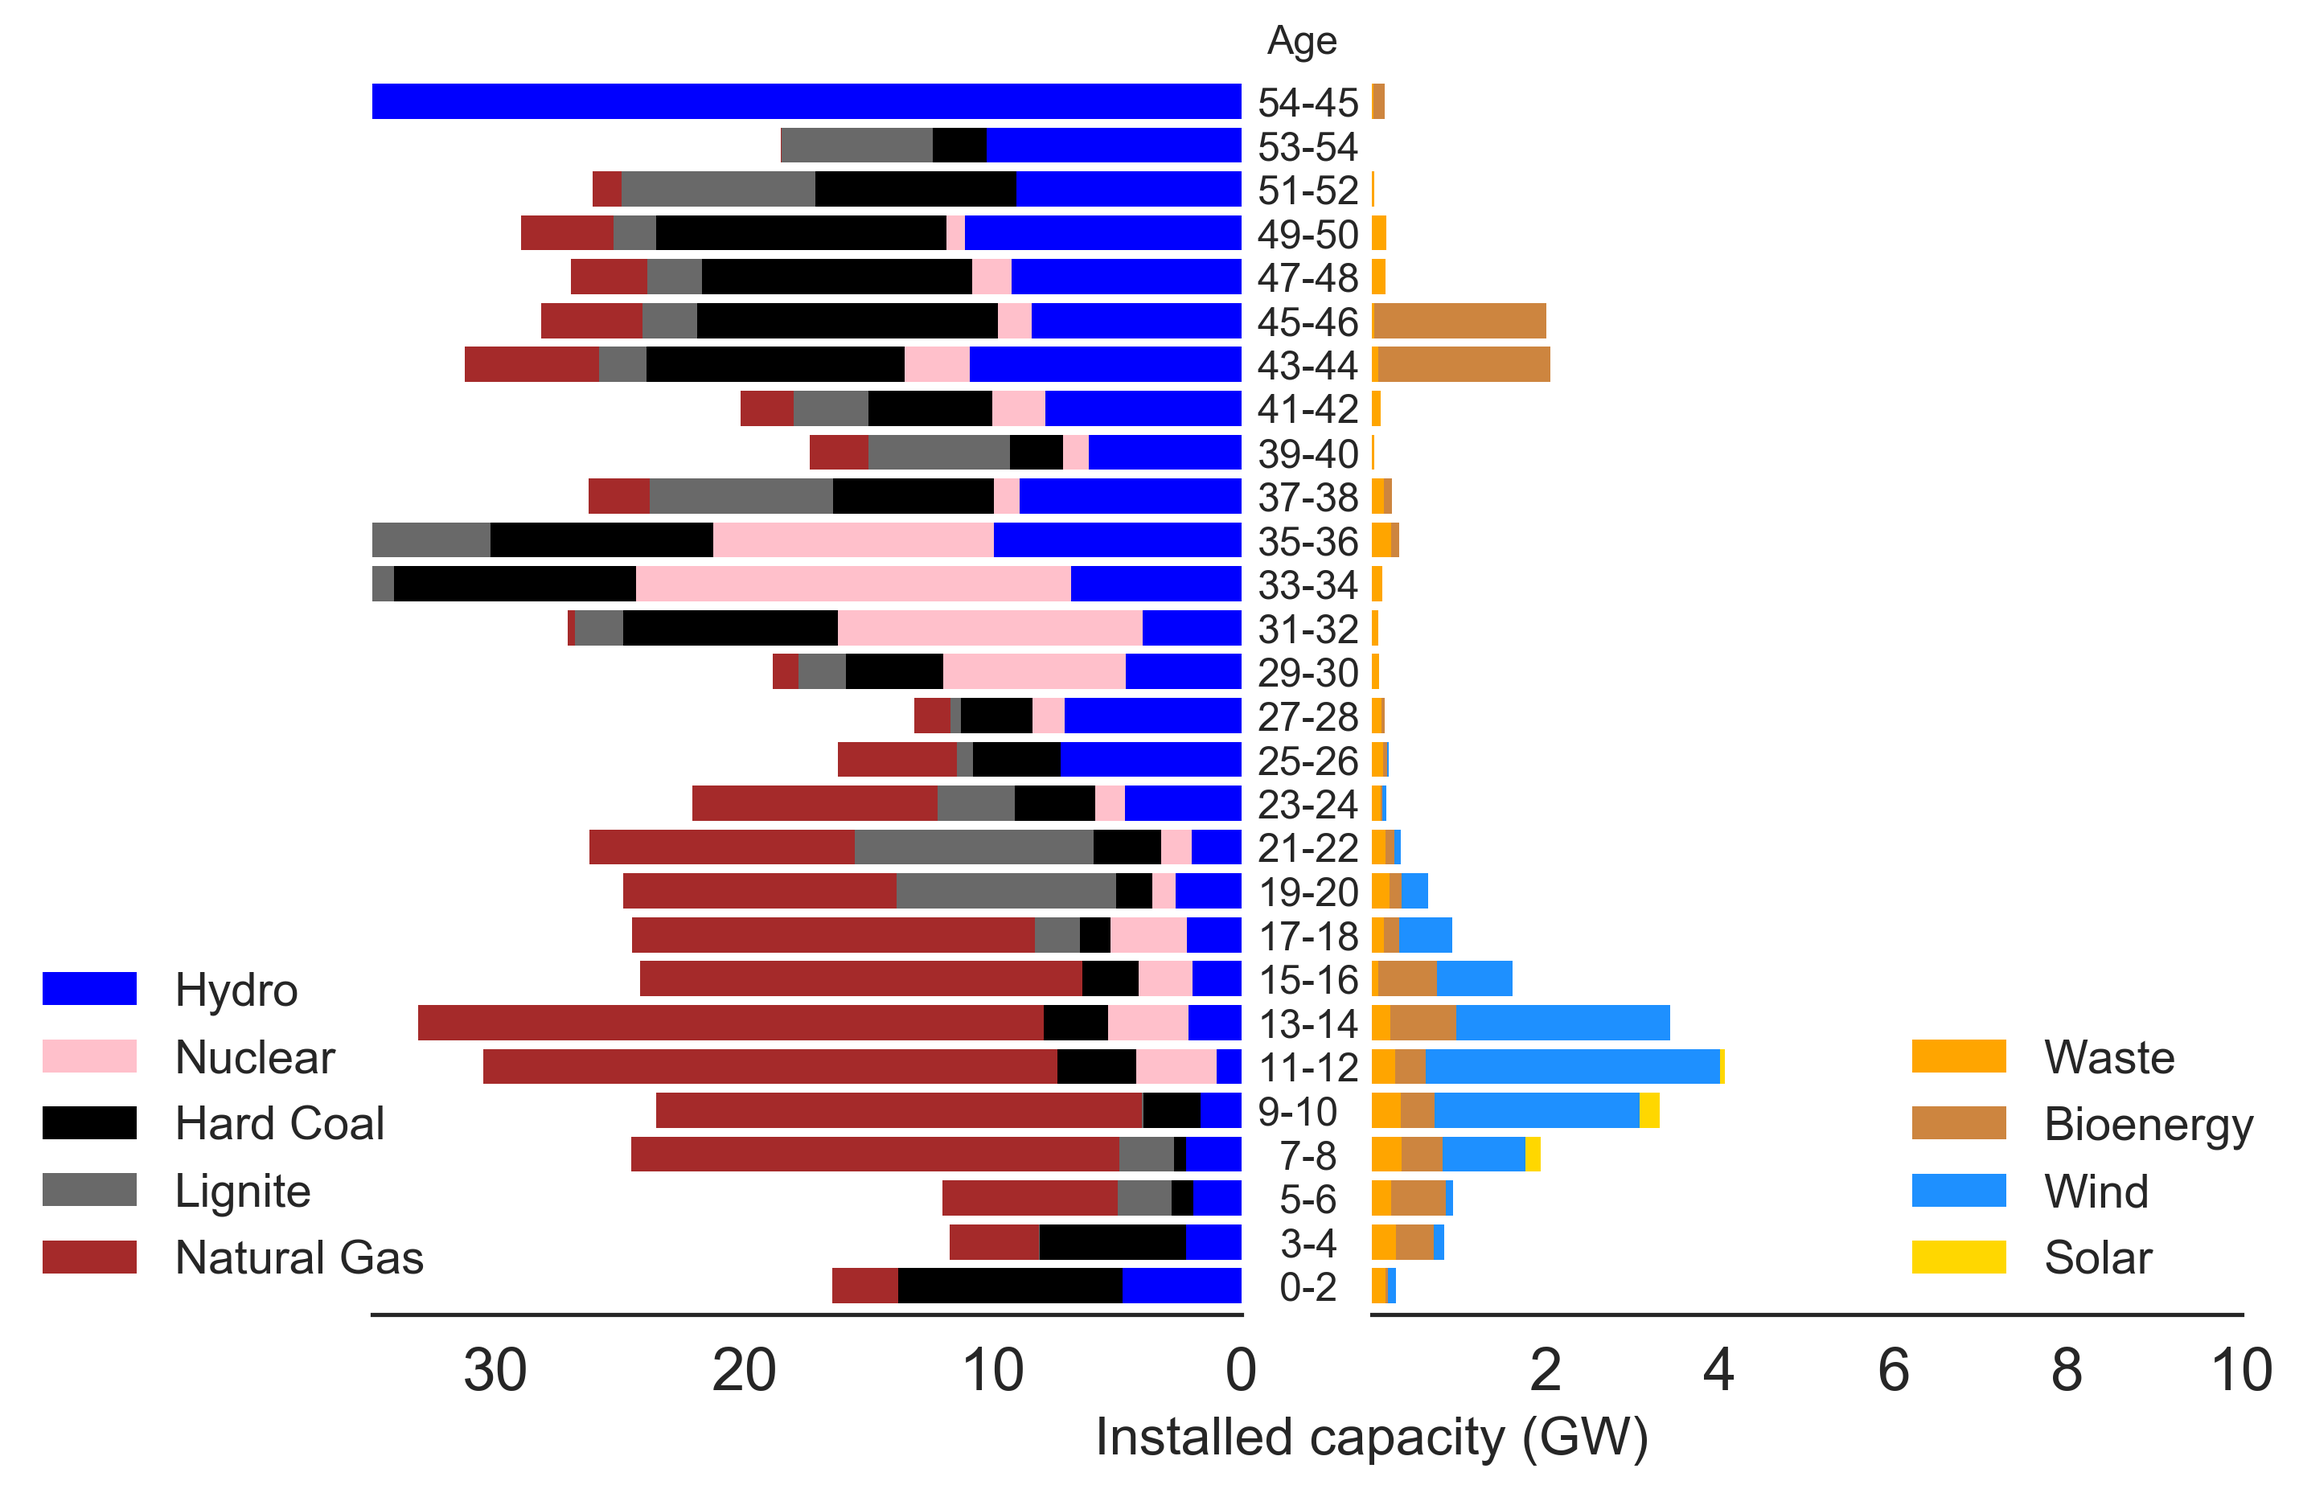
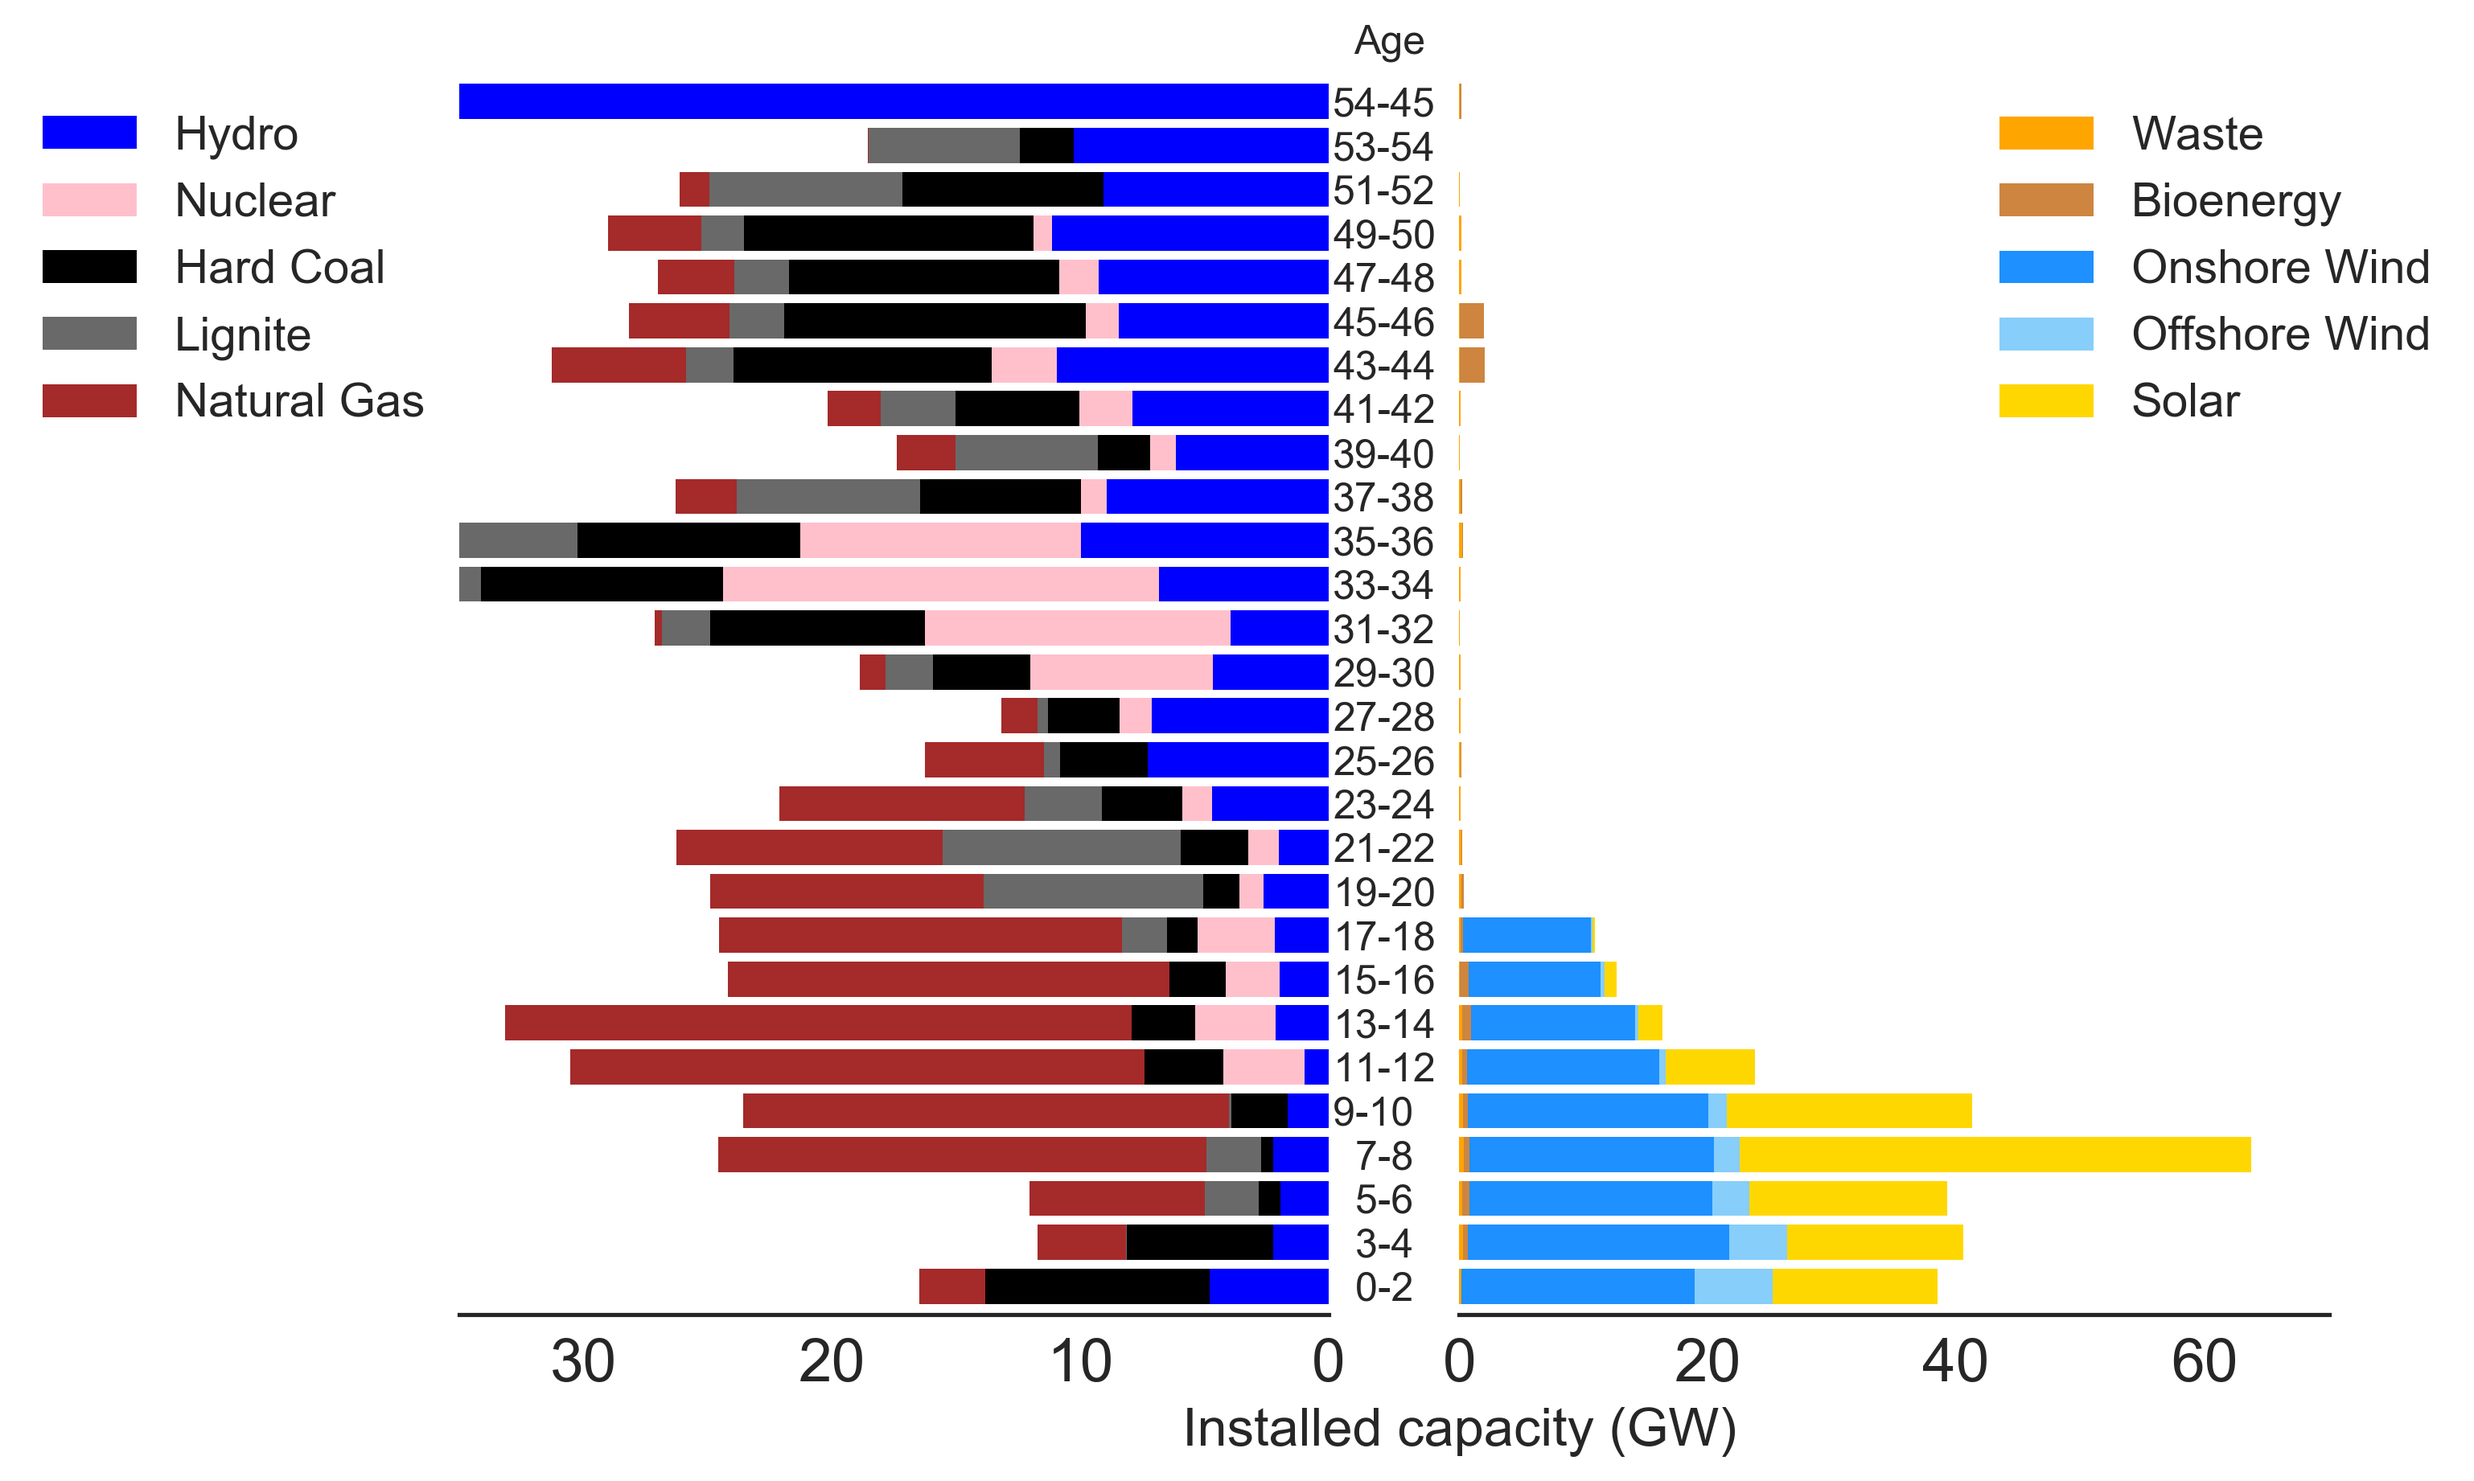
IRENA data added to age plants figure

diff --git a/paper_graphics/age_powerplants.py b/paper_graphics/age_powerplants.py
@@ -4,9 +4,6 @@ Created on Sat Oct 26 11:25:50 2019
 
 @author: Marta
 
-TODO: Read IRENA data for wind and solar
-
-
 """
 import pandas as pd
 import matplotlib.pyplot as plt
@@ -27,7 +24,7 @@ years=np.arange(1965, 2021, 2)
 
 
 technologies=['Hydro', 'Nuclear', 'Hard Coal', 'Lignite', 'Natural Gas', 
-              'Waste', 'Bioenergy', 'Wind', 'Solar']
+              'Waste', 'Bioenergy', 'Onshore Wind', 'Offshore Wind', 'Solar']
 
 
 agedata = pd.DataFrame(index = pd.Series(data=years, name='year'),
@@ -77,7 +74,7 @@ for tech in ['Hydro', 'Nuclear', 'Hard Coal', 'Lignite', 'Natural Gas']:
                               (i[3] > (year-5 )) & 
                               (i[3] < (year))]) 
     
-for tech in ['Waste', 'Bioenergy', 'Wind', 'Solar']:
+for tech in ['Waste', 'Bioenergy']: #, 'Wind', 'Solar']:
     agedata[tech][1965] = sum([i[2] for i in list(zip(data['Technology'], 
                                 data['Fueltype'],
                                 data['Capacity'], 
@@ -99,6 +96,19 @@ for tech in ['Waste', 'Bioenergy', 'Wind', 'Solar']:
                               #(i[4] == country) &  
                               (i[3] > (year-5 )) & 
                               (i[3] < (year))])
+
+# https://www.irena.org/statistics
+pv_df = pd.read_csv('data/PV_capacity_IRENA.csv', sep=';',
+                    index_col=0, encoding="latin-1")
+onwind_df = pd.read_csv('data/OnshoreWind_capacity_IRENA.csv', sep=';',
+                    index_col=0, encoding="latin-1")
+offwind_df = pd.read_csv('data/OffshoreWind_capacity_IRENA.csv', sep=';',
+                    index_col=0, encoding="latin-1")
+for year in years[-9:]:
+    agedata['Solar'][year] =  (pv_df[str(year-1)]['European Union']-pv_df[str(year-3)]['European Union'])
+    agedata['Onshore Wind'][year] =  (onwind_df[str(year-1)]['European Union']-onwind_df[str(year-3)]['European Union'])
+    agedata['Offshore Wind'][year] =  (offwind_df[str(year-1)]['European Union']-offwind_df[str(year-3)]['European Union'])
+agedata.fillna(0, inplace=True)    
     
 agedata=agedata/1000 #GW 
 #%%    
@@ -111,16 +121,16 @@ gs1.update(wspace=0.15)
 
 a0=agedata[['Hydro', 'Nuclear', 'Hard Coal', 'Lignite', 'Natural Gas']].plot.barh(stacked=True, 
           ax=ax0, color=['blue', 'pink', 'black', 'dimgrey', 'brown'], width=0.8, linewidth=0)
-a1 = agedata[['Waste', 'Bioenergy', 'Wind', 'Solar']].plot.barh(stacked=True, 
-            ax=ax1, color=['orange', 'peru', 'dodgerblue', 'gold'], width=0.8, linewidth=0)
+a1 = agedata[['Waste', 'Bioenergy', 'Onshore Wind', 'Offshore Wind', 'Solar']].plot.barh(stacked=True, 
+            ax=ax1, color=['orange', 'peru', 'dodgerblue', 'lightskyblue', 'gold'], width=0.8, linewidth=0)
 
 ax0.invert_xaxis()
 ax0.invert_yaxis()
 ax1.invert_yaxis()
 ax0.set_yticks([])
 ax0.set_xlim(35,0)
-ax1.set_xlim(0,10)
-ax1.set_xticks(np.arange(2,12,2))
+ax1.set_xlim(0,70)
+ax1.set_xticks(np.arange(0,70,20))
 ax0.set_ylabel('')
 ax1.set_ylabel('')
 
@@ -137,6 +147,6 @@ ax1.spines["left"].set_visible(False)
 ax0.spines["right"].set_visible(False)
 ax0.set_xlabel('Installed capacity (GW)', fontsize=16, x=1.15)
 ax0.set_title('Age', x=1.07)
-ax0.legend(loc=(-0.4,0.01), fontsize=14)
-ax1.legend(loc=(0.6,0.01), fontsize=14)
+ax0.legend(loc=(-0.5,0.7), fontsize=14)
+ax1.legend(loc=(0.6,0.7), fontsize=14)
 plt.savefig('../figures/age_distribution.png', dpi=300, bbox_inches='tight') 

diff --git a/paper_graphics/PV_installation_rates.py b/paper_graphics/PV_installation_rates.py
@@ -20,7 +20,7 @@ plt.rcParams['xtick.labelsize'] = 18
 plt.rcParams['ytick.labelsize'] = 18
 
 def PV_build_rates():
-    # add referecene to IRENA
+    # https://www.irena.org/statistics
     df = pd.read_csv('data/PV_capacity_IRENA_query.csv', sep=';',
                  index_col=0, encoding="latin-1")
 
